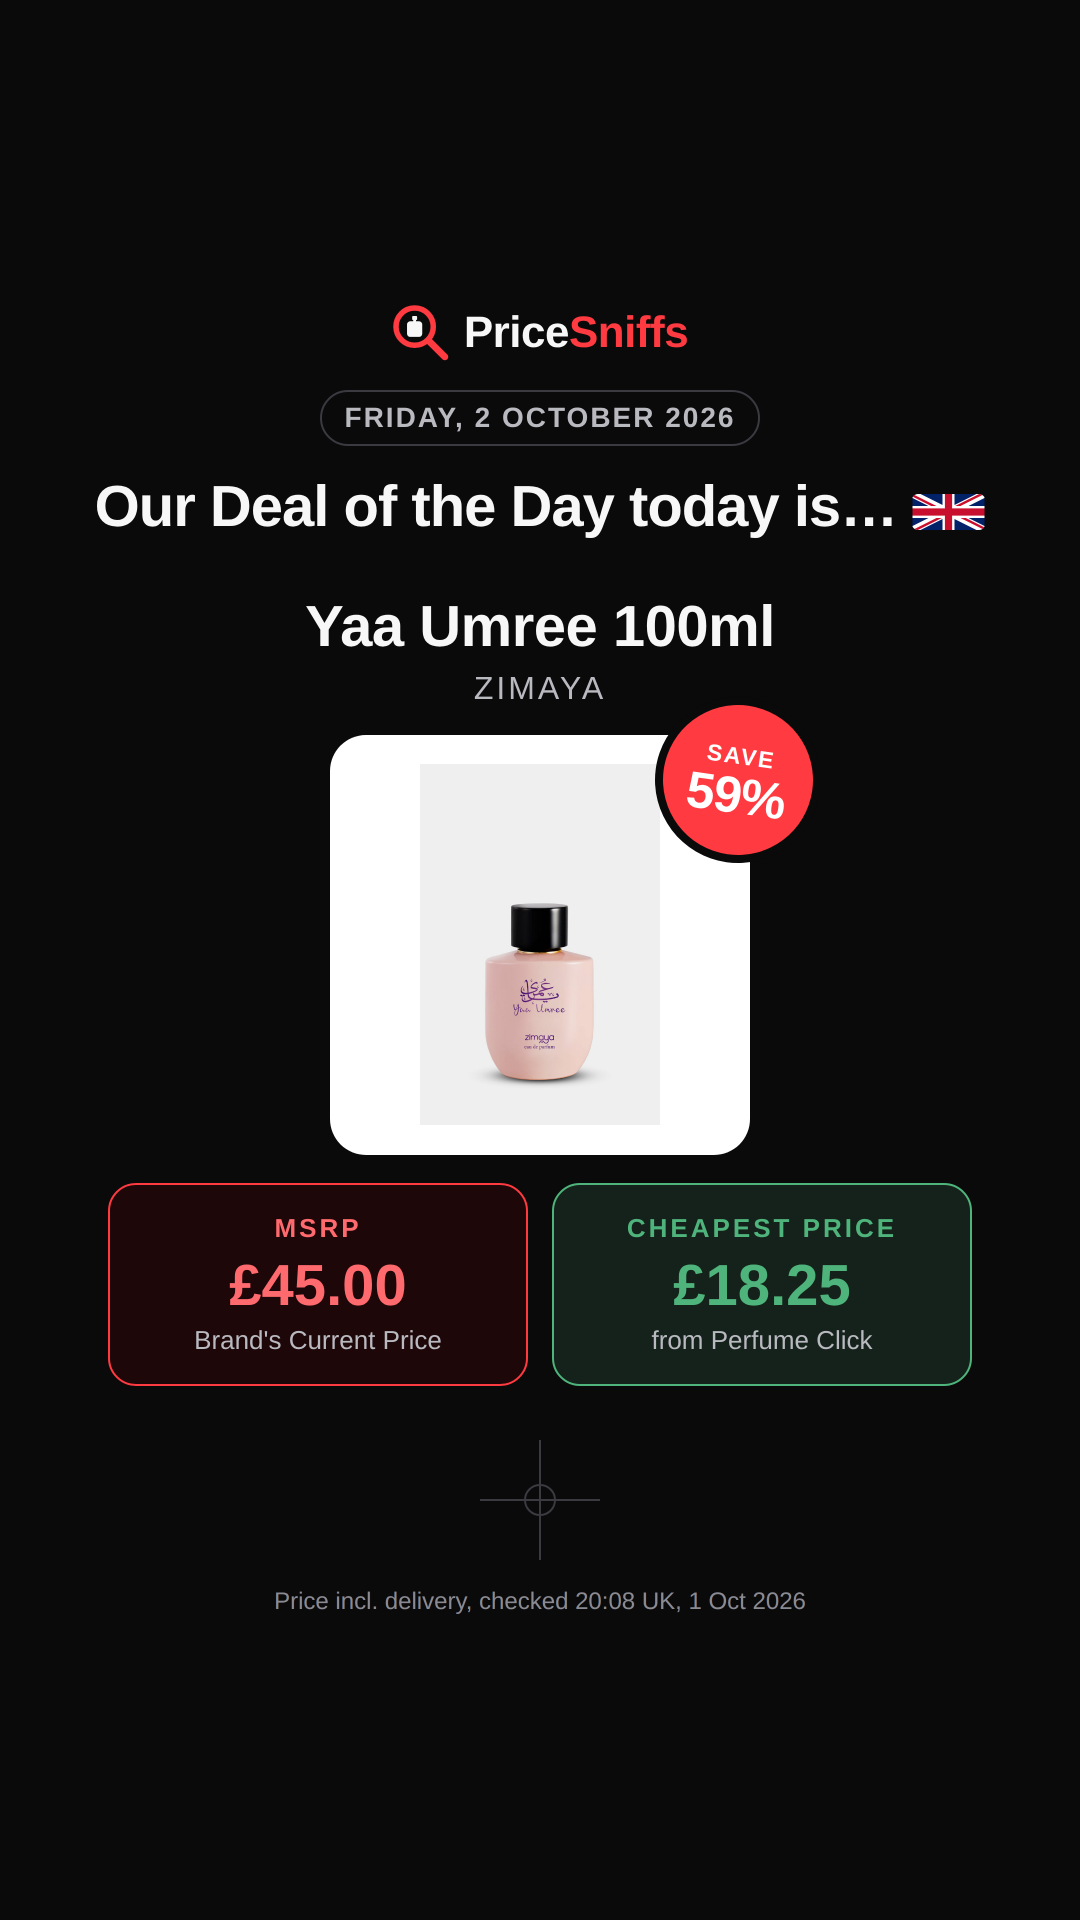
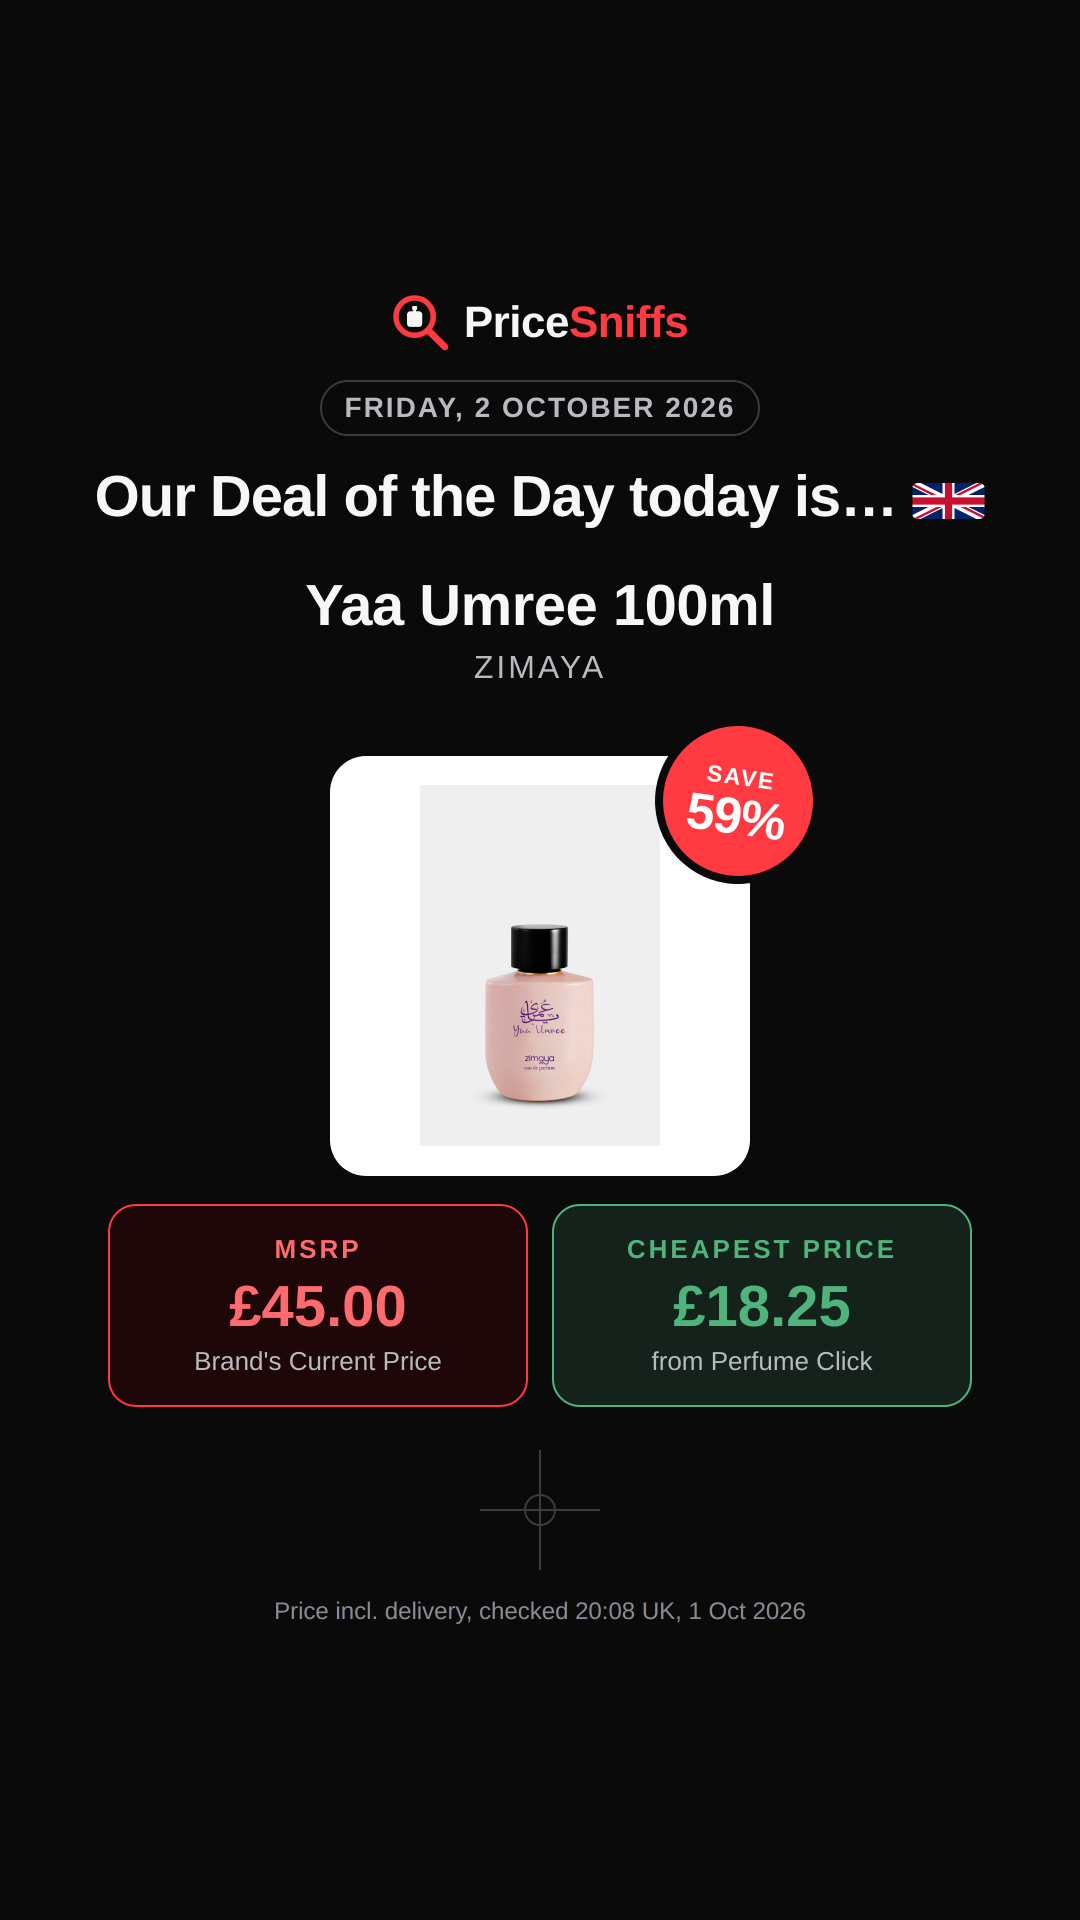
Deal of the Day: keep the SAVE badge clear of the brand line
The photo card now has room above it for the badge's overhang, and the layout
test fails if the badge touches the headline, name, brand, date or boxes.

Claude-Session: https://claude.ai/code/session_01R3frsh37eDNrxM6REtigC8

Changed region(s): [[0.0917, 0.1562, 0.9167, 0.4688], [0.1833, 0.4688, 0.825, 0.7188], [0.2444, 0.7812, 0.7639, 0.8438]]

diff --git a/tests/dealOfDayLayout.test.ts b/tests/dealOfDayLayout.test.ts
@@ -59,8 +59,21 @@ async function measure(html: string, w: number, h: number) {
     const h1 = document.querySelector('h1');
     const name = document.querySelector('.name');
     const lines = (el) => Math.round(el.getBoundingClientRect().height / parseFloat(getComputedStyle(el).lineHeight));
-    return { overflow: main.scrollHeight > main.clientHeight + 1, boxes, h1Lines: lines(h1), nameLines: lines(name) };
-  })()`)) as { overflow: boolean; boxes: { cls: string; l: number; r: number; t: number; b: number }[]; h1Lines: number; nameLines: number };
+    // The SAVE badge must not touch any text: name, brand, headline or prices.
+    const badge = document.querySelector('.badge');
+    const hits = [];
+    if (badge) {
+      const b = badge.getBoundingClientRect();
+      for (const t of document.querySelectorAll('h1, .name, .brand, .date, .box')) {
+        const r = t.getBoundingClientRect();
+        const range = document.createRange(); range.selectNodeContents(t);
+        for (const tr of t.matches('.box') ? [r] : range.getClientRects()) {
+          if (tr.width && b.left < tr.right && b.right > tr.left && b.top < tr.bottom && b.bottom > tr.top) hits.push(t.className || t.tagName);
+        }
+      }
+    }
+    return { overflow: main.scrollHeight > main.clientHeight + 1, boxes, h1Lines: lines(h1), nameLines: lines(name), badgeHits: hits };
+  })()`)) as { overflow: boolean; boxes: { cls: string; l: number; r: number; t: number; b: number }[]; h1Lines: number; nameLines: number; badgeHits: string[] };
   await page.close();
   return r;
 }
@@ -73,6 +86,7 @@ describe('Deal of the Day layout with extreme data', () => {
         expect(m.overflow).toBe(false);
         expect(m.h1Lines).toBe(1);
         expect(m.nameLines).toBeLessThanOrEqual(2);
+        expect(m.badgeHits).toEqual([]);
         const outside = m.boxes.filter((b) => b.l < 89 || b.r > f.w - 89 || b.t < f.pad - 1 || b.b > f.h - f.pad + 1);
         expect(outside).toEqual([]);
       }, 30_000);

diff --git a/scripts/social-deal-of-day.ts b/scripts/social-deal-of-day.ts
@@ -180,7 +180,9 @@ export function postHtml(p: Pick, photo: string, dateLabel: string, checked: str
   .who { display: flex; flex-direction: column; gap: 10px; width: 100%; }
   .name { margin: 0; font-size: ${f.name}px; font-weight: 700; line-height: 1.12; letter-spacing: -0.5px; overflow-wrap: anywhere; }
   .brand { margin: 0; font-size: ${f.brand}px; color: #B9B9C0; letter-spacing: 3px; text-transform: uppercase; white-space: nowrap; }
-  .photo { position: relative; width: calc(${f.photo}px * var(--k, 1)); height: calc(${f.photo}px * var(--k, 1)); border-radius: 36px; background: #FFFFFF;
+  /* The SAVE badge pokes out above the card; this keeps that much clear space
+     above the card so it can never sit on the brand line, however long. */
+  .photo { margin-top: ${Math.round(f.badge * 0.2) + 12}px; position: relative; width: calc(${f.photo}px * var(--k, 1)); height: calc(${f.photo}px * var(--k, 1)); border-radius: 36px; background: #FFFFFF;
     display: flex; align-items: center; justify-content: center; }
   .photo img { width: 86%; height: 86%; object-fit: contain; border-radius: 12px; }
   .badge { position: absolute; top: -${Math.round(f.badge * 0.2)}px; right: -${Math.round(f.badge * 0.42)}px;

diff --git a/social/posts/2026-10-02-deal-of-the-day/post-3x4.html b/social/posts/2026-10-02-deal-of-the-day/post-3x4.html
@@ -15,7 +15,9 @@
   .who { display: flex; flex-direction: column; gap: 10px; width: 100%; }
   .name { margin: 0; font-size: 52px; font-weight: 700; line-height: 1.12; letter-spacing: -0.5px; overflow-wrap: anywhere; }
   .brand { margin: 0; font-size: 28px; color: #B9B9C0; letter-spacing: 3px; text-transform: uppercase; white-space: nowrap; }
-  .photo { position: relative; width: calc(380px * var(--k, 1)); height: calc(380px * var(--k, 1)); border-radius: 36px; background: #FFFFFF;
+  /* The SAVE badge pokes out above the card; this keeps that much clear space
+     above the card so it can never sit on the brand line, however long. */
+  .photo { margin-top: 39px; position: relative; width: calc(380px * var(--k, 1)); height: calc(380px * var(--k, 1)); border-radius: 36px; background: #FFFFFF;
     display: flex; align-items: center; justify-content: center; }
   .photo img { width: 86%; height: 86%; object-fit: contain; border-radius: 12px; }
   .badge { position: absolute; top: -27px; right: -57px;

diff --git a/social/posts/2026-10-02-deal-of-the-day/post-9x16.html b/social/posts/2026-10-02-deal-of-the-day/post-9x16.html
@@ -15,7 +15,9 @@
   .who { display: flex; flex-direction: column; gap: 10px; width: 100%; }
   .name { margin: 0; font-size: 58px; font-weight: 700; line-height: 1.12; letter-spacing: -0.5px; overflow-wrap: anywhere; }
   .brand { margin: 0; font-size: 32px; color: #B9B9C0; letter-spacing: 3px; text-transform: uppercase; white-space: nowrap; }
-  .photo { position: relative; width: calc(420px * var(--k, 1)); height: calc(420px * var(--k, 1)); border-radius: 36px; background: #FFFFFF;
+  /* The SAVE badge pokes out above the card; this keeps that much clear space
+     above the card so it can never sit on the brand line, however long. */
+  .photo { margin-top: 42px; position: relative; width: calc(420px * var(--k, 1)); height: calc(420px * var(--k, 1)); border-radius: 36px; background: #FFFFFF;
     display: flex; align-items: center; justify-content: center; }
   .photo img { width: 86%; height: 86%; object-fit: contain; border-radius: 12px; }
   .badge { position: absolute; top: -30px; right: -63px;

diff --git a/social/DESIGN-SYSTEM.md b/social/DESIGN-SYSTEM.md
@@ -55,7 +55,8 @@ cut with "…" as a last resort:
 
 If the whole picture still does not fit (for example a long name plus many
 notes), the photo, note chips and gaps shrink together, step by step, down to
-60%. Notes show at most 5 per tier, then "+N more". `tests/dealOfDayLayout.test.ts`
+60%. Notes show at most 5 per tier, then "+N more". The SAVE badge always
+has clear space above the photo card, so it never touches the brand or name. `tests/dealOfDayLayout.test.ts`
 renders very long names, brands, shop names and note lists and fails if
 anything leaves the picture or crosses the margins.
 
